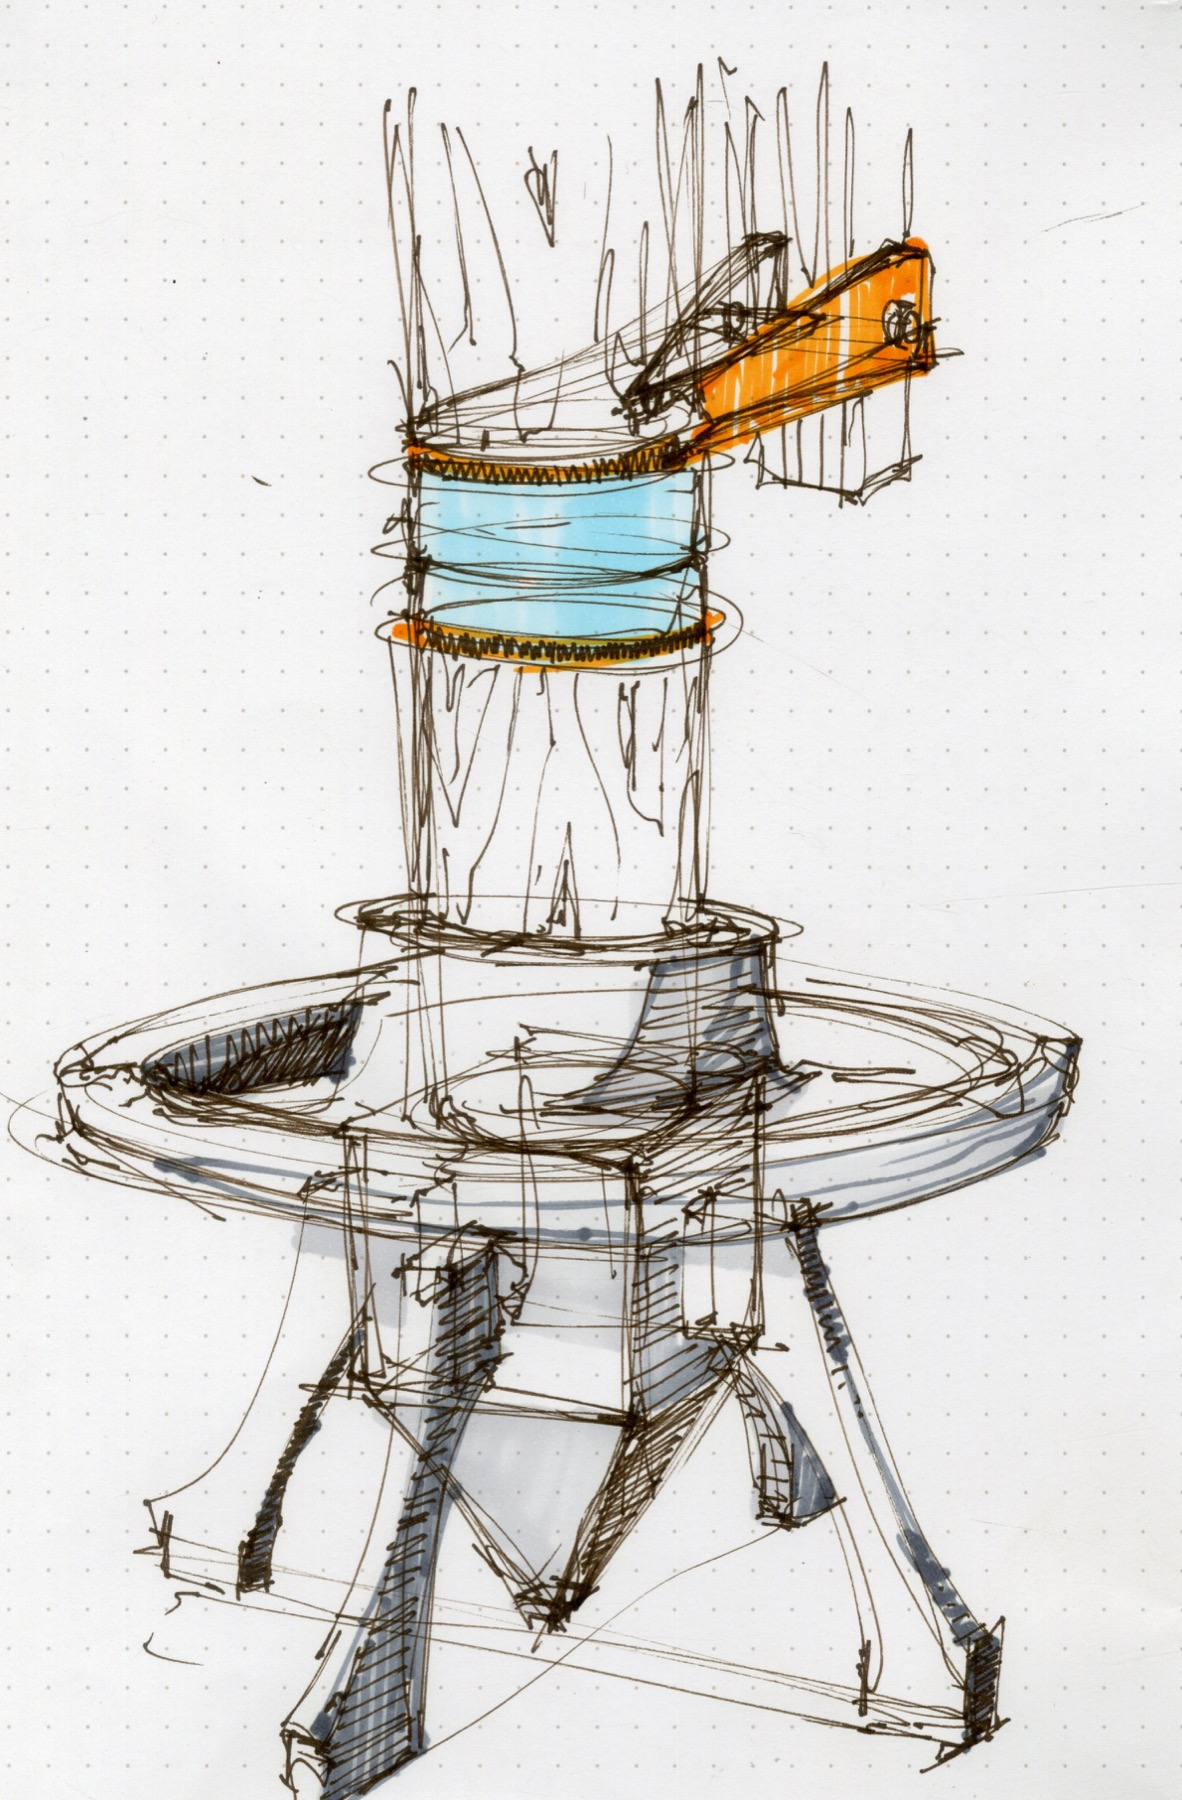
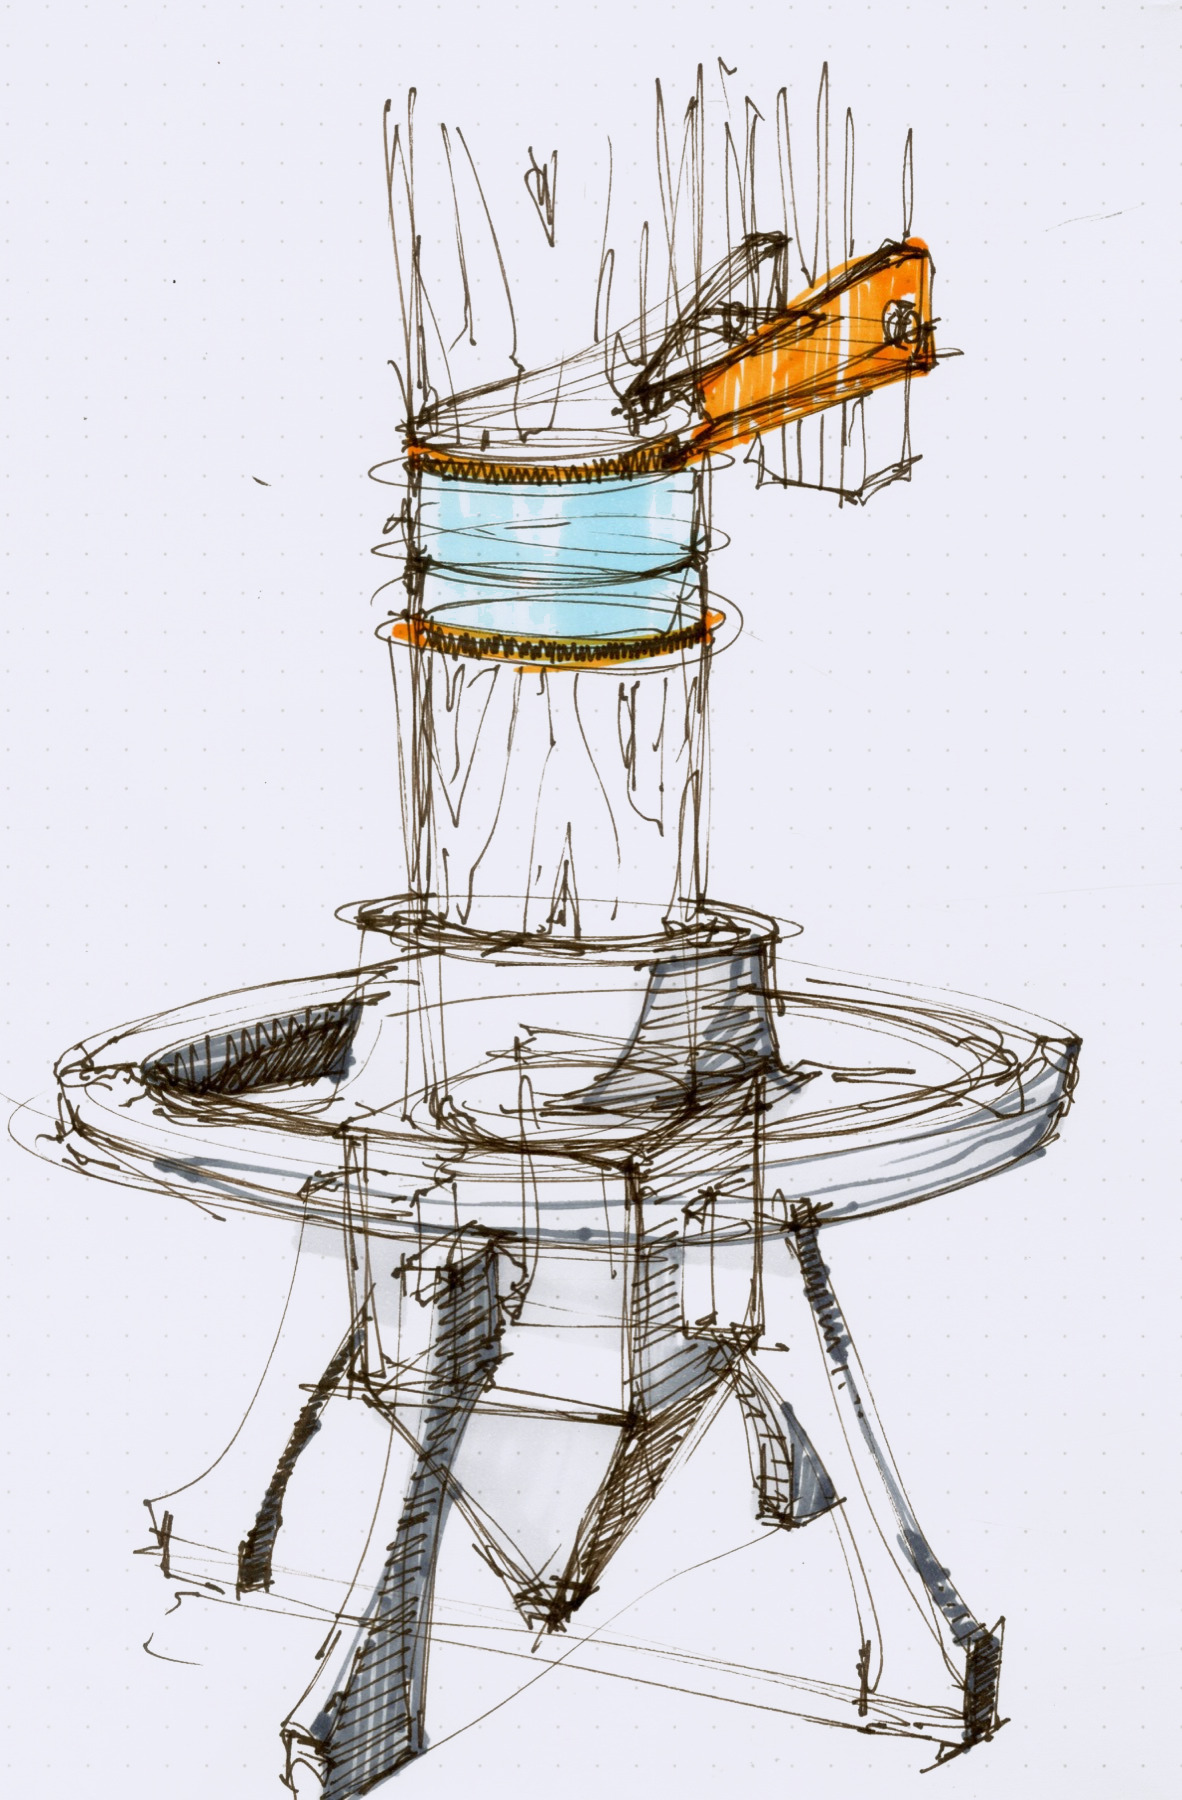
Update portfolio galleries

diff --git a/index.html b/index.html
@@ -1401,7 +1401,7 @@
           <div class="intro-copy">
             <p class="eyebrow">Portfolio · <time data-current-time>Current date and time</time></p>
             <h1 id="page-title">A designer and artist led by drawing.</h1>
-            <p class="lede">I use sketching, CAD, research, prototyping, digital painting, and film photography to study form, atmosphere, and how objects feel.</p>
+            <p class="lede">Sketching, CAD, research, prototyping, digital painting, and film photography guide studies of form, atmosphere, and how objects feel.</p>
           </div>
 
           <div class="money-shot">
@@ -1472,23 +1472,23 @@
                     </ul>
                   </div>
                   <div class="compact-gallery hairdryer-gallery">
-                    <button class="media-tile is-story" type="button" aria-label="Expand hair dryer front render">
-                      <img src="assets/portfolio/images/hair-dryer-front-render.jpg" alt="Hair dryer product render with the form centered on a gray background.">
-                    </button>
-                    <button class="media-tile is-story is-fit" type="button" style="--tile-bg: #ffffff; --image-scale: 1.04; --image-hover-scale: 1.08;" aria-label="Expand hair dryer orthographic linework">
-                      <img src="assets/portfolio/images/hair-dryer-orthographics.jpg" alt="Hair dryer orthographic linework with front, side, and top dimensions.">
-                    </button>
-                    <button class="media-tile is-process is-fit" type="button" style="--tile-bg: #ffffff;" aria-label="Expand hair dryer render">
-                      <img src="assets/portfolio/images/hair-dryer-render.jpg" alt="Hair dryer product render on a blue background.">
-                    </button>
                     <button class="media-tile is-process is-fit" type="button" style="--tile-bg: #ffffff;" aria-label="Expand hair dryer sketch page one">
                       <img src="assets/portfolio/images/hair-dryer-sketch-page-1.jpg" alt="Hair dryer concept sketch page with many form studies.">
                     </button>
                     <button class="media-tile is-process is-fit" type="button" style="--tile-bg: #ffffff;" aria-label="Expand hair dryer sketch page two">
                       <img src="assets/portfolio/images/hair-dryer-sketch-page-2.jpg" alt="Hair dryer concept sketch page with translucent construction drawings.">
                     </button>
+                    <button class="media-tile is-process is-fit" type="button" style="--tile-bg: #ffffff;" aria-label="Expand hair dryer render">
+                      <img src="assets/portfolio/images/hair-dryer-render.jpg" alt="Hair dryer product render on a blue background.">
+                    </button>
+                    <button class="media-tile is-story is-fit" type="button" style="--tile-bg: #ffffff; --image-scale: 1.04; --image-hover-scale: 1.08;" aria-label="Expand hair dryer orthographic linework">
+                      <img src="assets/portfolio/images/hair-dryer-orthographics.jpg" alt="Hair dryer orthographic linework with front, side, and top dimensions.">
+                    </button>
                     <button class="media-tile is-process is-fit" type="button" style="--tile-bg: #ffffff;" aria-label="Expand hair dryer construction study">
                       <img src="assets/portfolio/images/hair-dryer-screenshot-study.jpg" alt="Transparent hair dryer construction study render.">
+                    </button>
+                    <button class="media-tile is-story" type="button" aria-label="Expand hair dryer front render">
+                      <img src="assets/portfolio/images/hair-dryer-front-render.jpg" alt="Hair dryer product render with the form centered on a gray background.">
                     </button>
                   </div>
                 </section>
@@ -1547,7 +1547,7 @@
                     <p>Silhouette refinement, proportion studies, tableware rendering, and soft material language.</p>
                   </div>
                   <div class="compact-gallery">
-                    <button class="media-tile is-wide" type="button" style="--tile-bg: #f6f6f4;" aria-label="Expand fork utensil render">
+                    <button class="media-tile is-wide" type="button" style="--tile-bg: #f6f6f4; --image-shift-x: 20%; --image-scale: 1.2; --image-hover-scale: 1.24;" aria-label="Expand fork utensil render">
                       <img src="assets/portfolio/images/utensil-fork-top.jpg" alt="Pale fork utensil render shown from above.">
                     </button>
                     <button class="media-tile is-wide is-fit" type="button" style="--tile-bg: #ffffff;" aria-label="Expand utensil plate render">
@@ -1603,9 +1603,6 @@
                     </button>
                     <button class="media-tile is-contained" type="button" style="--tile-bg: #95a7c9; --image-shift-x: -3%; --image-scale: 1.22; --image-hover-scale: 1.26;" aria-label="Expand lilac block drapery study">
                       <img src="assets/portfolio/images/digital-paintings/object-studies/lilac-block-drapery-form.jpg" alt="Lilac block drapery form study.">
-                    </button>
-                    <button class="media-tile is-contained" type="button" style="--tile-bg: #8b8db4;" aria-label="Expand tall lilac drapery study">
-                      <img src="assets/portfolio/images/digital-paintings/object-studies/tall-lilac-drapery-form.jpg" alt="Tall lilac drapery form study.">
                     </button>
                     <button class="media-tile is-contained" type="button" style="--tile-bg: #9bb4af;" aria-label="Expand soft amber drapery study">
                       <img src="assets/portfolio/images/digital-paintings/object-studies/soft-amber-drapery-form.jpg" alt="Soft amber drapery form study.">
@@ -1719,6 +1716,60 @@
                     </button>
                     <button class="media-tile is-landscape" type="button" aria-label="Expand plant light photograph">
                       <img src="assets/portfolio/images/photography/filmfoto-plant-light.jpg" alt="Film photograph of plant light.">
+                    </button>
+                    <button class="media-tile is-landscape" type="button" aria-label="Expand window statue film photograph">
+                      <img src="assets/portfolio/images/photography/filmfotos-000141300016.jpg" alt="Black-and-white film photograph of a small statue near a window.">
+                    </button>
+                    <button class="media-tile is-landscape" type="button" aria-label="Expand camera portrait film photograph">
+                      <img src="assets/portfolio/images/photography/filmfotos-000141300017.jpg" alt="Black-and-white film photograph of a person holding a camera.">
+                    </button>
+                    <button class="media-tile is-landscape" type="button" aria-label="Expand apartment room film photograph">
+                      <img src="assets/portfolio/images/photography/filmfotos-000141300018.jpg" alt="Black-and-white film photograph of an apartment room with a table and television.">
+                    </button>
+                    <button class="media-tile is-landscape" type="button" aria-label="Expand television reflection film photograph">
+                      <img src="assets/portfolio/images/photography/filmfotos-000141300019.jpg" alt="Black-and-white film photograph of a television and reflected light.">
+                    </button>
+                    <button class="media-tile is-landscape" type="button" aria-label="Expand room reflection film photograph">
+                      <img src="assets/portfolio/images/photography/filmfotos-000141300020.jpg" alt="Black-and-white film photograph of a room with bright screen reflection.">
+                    </button>
+                    <button class="media-tile is-landscape" type="button" aria-label="Expand couch window film photograph">
+                      <img src="assets/portfolio/images/photography/filmfotos-000141300021.jpg" alt="Black-and-white film photograph of a couch near a bright window.">
+                    </button>
+                    <button class="media-tile is-landscape" type="button" aria-label="Expand living room table film photograph">
+                      <img src="assets/portfolio/images/photography/filmfotos-000141300023.jpg" alt="Black-and-white film photograph of a low table in a living room.">
+                    </button>
+                    <button class="media-tile is-landscape" type="button" aria-label="Expand table interior film photograph">
+                      <img src="assets/portfolio/images/photography/filmfotos-000141300024.jpg" alt="Black-and-white film photograph of a person seated at a table.">
+                    </button>
+                    <button class="media-tile is-landscape" type="button" aria-label="Expand flower study film photograph">
+                      <img src="assets/portfolio/images/photography/filmfotos-000141300025.jpg" alt="Black-and-white film photograph of flowers and foliage.">
+                    </button>
+                    <button class="media-tile is-landscape" type="button" aria-label="Expand pop-up sign film photograph">
+                      <img src="assets/portfolio/images/photography/filmfotos-000141300027.jpg" alt="Black-and-white film photograph of a large pop-up sign.">
+                    </button>
+                    <button class="media-tile is-landscape" type="button" aria-label="Expand street sign figure film photograph">
+                      <img src="assets/portfolio/images/photography/filmfotos-000141300028.jpg" alt="Black-and-white film photograph of a person standing in front of a pop-up sign.">
+                    </button>
+                    <button class="media-tile is-landscape" type="button" aria-label="Expand wall sign film photograph">
+                      <img src="assets/portfolio/images/photography/filmfotos-000141300030.jpg" alt="Black-and-white film photograph of signage on a wall.">
+                    </button>
+                    <button class="media-tile is-landscape" type="button" aria-label="Expand wall detail film photograph">
+                      <img src="assets/portfolio/images/photography/filmfotos-000141300031.jpg" alt="Black-and-white film photograph of a wall sign detail.">
+                    </button>
+                    <button class="media-tile is-landscape" type="button" aria-label="Expand material aisle film photograph">
+                      <img src="assets/portfolio/images/photography/filmfotos-000141300032.jpg" alt="Black-and-white film photograph of an aisle with stacked materials.">
+                    </button>
+                    <button class="media-tile is-landscape" type="button" aria-label="Expand textile aisle film photograph">
+                      <img src="assets/portfolio/images/photography/filmfotos-000141300033.jpg" alt="Black-and-white film photograph of people in a textile aisle.">
+                    </button>
+                    <button class="media-tile is-landscape" type="button" aria-label="Expand fabric rolls film photograph">
+                      <img src="assets/portfolio/images/photography/filmfotos-000141300034.jpg" alt="Black-and-white film photograph of fabric rolls in an aisle.">
+                    </button>
+                    <button class="media-tile is-landscape" type="button" aria-label="Expand street scene film photograph">
+                      <img src="assets/portfolio/images/photography/filmfotos-000141300036.jpg" alt="Black-and-white film photograph of a person crossing a city street.">
+                    </button>
+                    <button class="media-tile is-landscape" type="button" aria-label="Expand street figure film photograph">
+                      <img src="assets/portfolio/images/photography/filmfotos-000141300037.jpg" alt="Black-and-white film photograph of a person seen from behind on a street.">
                     </button>
                   </div>
                 </section>
